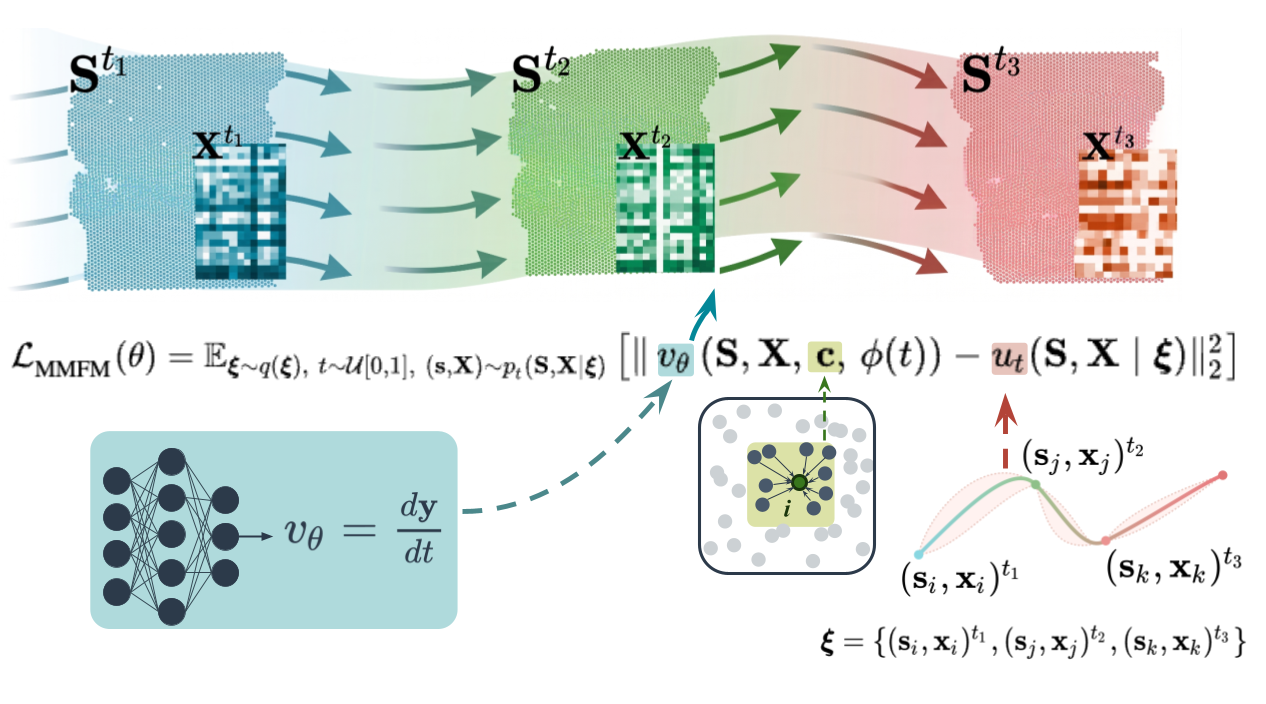
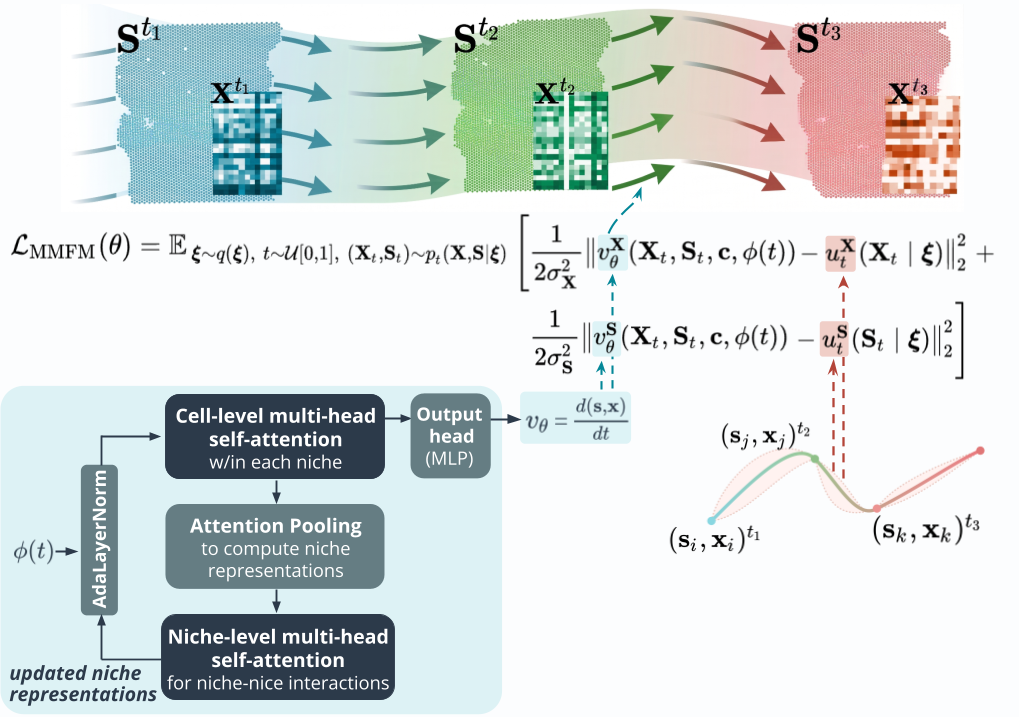
update publications

diff --git a/_includes/cv.md b/_includes/cv.md
@@ -2,7 +2,7 @@
 <!-- I am a **data scientist** and **ML/AI researcher**, focusing on **computational biology** and **biomedicine** applications. As such,  -->
 I am a postdoctoral researcher at the [Eric and Wendy Schmidt Center](https://www.ericandwendyschmidtcenter.org/) of the **Broad Institute of MIT and Harvard**. My research is at the intersection of **computer science**, **molecular biology**, and **statistics**. I develop algorithms and machine learning models to integrate multi-modal genomic data, with a goal of understanding cellular dynamics in health and disease and assisting cell state engineering. I received my Ph.D. in computer science and computational biology from **Brown University**, under the advisement of [Ritambhara Singh, Ph.D.](http://rsinghlab.org/) (primary advisor) and [Sorin Istrail, Ph.D.](https://www.brown.edu/Research/Istrail_Lab/sorin.php) My [doctoral dissertation](https://repository.library.brown.edu/studio/item/bdr:er5vz2ca/) was on optimal transport algorithms for integrated analysis of single-cell multi-omics data. </p> 
 <p align='justify'>
-This year, I am co-organizing the [Generative AI in Genomics (Gen²): Barriers and Frontiers Workshop](https://genai-in-genomics.github.io/) at [ICLR 2026](https://iclr.cc/). If you are in the field, consider joining us this April! Since September 2023, I've also been involved in organizing the [Models, Inference, and Algorithms (MIA)](https://www.broadinstitute.org/talks/fall-2023/mia) seminar series at the Broad, where we host talks by computational scientists in bio(medicine). You can check out our [upcoming schedule](https://www.broadinstitute.org/talks/fall-2023/mia) and [past talks](https://www.youtube.com/watch?v=zE_G9rjIhEQ&list=PLlMMtlgw6qNjROoMNTBQjAcdx53kV50cS).  </p>
+This year, I co-organized the [Generative AI in Genomics (Gen²): Barriers and Frontiers Workshop](https://genai-in-genomics.github.io/) at [ICLR 2026](https://iclr.cc/). Since September 2023, I've also been involved in organizing the [Models, Inference, and Algorithms (MIA)](https://www.broadinstitute.org/talks/fall-2023/mia) seminar series at the Broad, where we host talks by computational scientists in bio(medicine). You can check out our [upcoming schedule](https://www.broadinstitute.org/talks/fall-2023/mia) and [past talks](https://www.youtube.com/watch?v=zE_G9rjIhEQ&list=PLlMMtlgw6qNjROoMNTBQjAcdx53kV50cS).  </p>
 <!-- I am honored to be recognized as part of the [Rising Stars in EECS 2022 cohort](https://risingstars.utexas.edu/#:~:text=Rising%20Stars%20is%20an%20intensive,artificial%20intelligence%20and%20decision%2Dmaking.) by The University of Texas at Austin.<br>
  --><!-- 
 Before joining Brown, I received my bachelor’s degree in **bioengineering** from **Olin College of Engineering**. There, I worked with [Jean J. Huang, Ph.D.](http://www.olin.edu/faculty/profile/jean-j-huang/) and [John Geddes, Ph.D.](http://www.olin.edu/faculty/profile/john-b-geddes) on bioinformatic analyses and dynamical modeling of microbial communities under various perturbations. Later, I worked in the [Quantitative Biology Lab](http://gwli.scripts.mit.edu/group/?p=737), led by [Gene-Wei Li, Ph.D.](https://biology.mit.edu/profile/gene-wei-li/) at the **Massachusetts Institute of Technology (MIT)**, as a research support associate and lab manager, exploring gene regulatory network rewiring in bacteria. In the summers of 2020 and 2022, I interned with two [Health Futures groups](https://www.microsoft.com/en-us/research/lab/microsoft-health-futures/) at **Microsoft Research.** <br> -->
@@ -157,6 +157,23 @@ div.interest-container>ul {
 #### <i class="fa fa-chevron-right"></i> Research Publications <a href="https://scholar.google.com/citations?user=0Tzd6eAAAAAJ&hl=en" class="btn btn-primary" style="padding: 0.3em;"><i class="ai ai-google-scholar"></i> Google Scholar </a>
 <h4>2026</h4>
 
+<tr>
+<td class="col-md-3"><a href='https://openreview.net/pdf?id=RpgaMJ0ovu' target='_blank'><img src="images/publications/spatialFM.png"/></a> </td>
+<td>
+    <strong>Multi-Scale Flow Matching for Continuous-time Generative Modeling of Spatiotemporal Tissue Dynamics from Spatial Transcriptomics</strong><br>
+    <strong> P. Demetci </strong>, T. Guan, B. Xia, L. Atanackovic<br>
+    <em>ICML GenBio</em> <br>
+    [9] 
+[<a href='javascript:;'
+    onclick='$("#abs_spatial").toggle()'>abstract</a>] [<a href='' target='_blank'>paper</a>] [<a href='[https://github.com/pinardemetci/CHRONOTILE](https://github.com/pinardemetci/CHRONOTILE)' target='_blank'>code</a>] <br>
+<div style="padding: 0.2em; background-color: #175783; color: white; border-radius: 4px; font-size: 1.0em; height: 28px; width: 120px;">
+         Spotlight Paper
+      </div>  
+<div id="abs_spatial" style="text-align: justify; display: none" markdown="1">
+Understanding how tissue organization changes over time in response to signals from the local cellular environment is a fundamental challenge in developmental biology, cancer biology, and regenerative medicine. Spatial transcriptomics enables the characterization of cell states within their native microenvironment. Yet tissue remodeling unfolds continuously, while spatial transcriptomics only captures fragments, yielding unmatched cross-sectional snapshots from a few time points due to its destructive nature. This necessitates computational approaches to reconstruct dynamics from sparse observations. Existing methods either do not model the temporal dynamics or ignore cell signaling effects. We introduce ChronoTILE , a multi-scale, multi-marginal flow matching framework that jointly odels continuous-time spatiotemporal tissue dynamics. ChronoTILE accounts for cell-cell interactions, and models niche-mediated signaling effects, across the full course of a biological process. Applied to an axolotl telencephalon regeneration atlas, ChronoTILE outperforms existing methods in reconstructing held-out slices and reveals a temporal shift toward differentiation-driven cell signaling from injury-driven effects as the tissue recovers, enabling data-driven discovery of the multicellular programs governing tissue remodeling.
+</div>
+</td>
+</tr>
 
 
 <h4>2025</h4>
@@ -174,22 +191,6 @@ div.interest-container>ul {
     
 <div id="abs_zeppilli" style="text-align: justify; display: none" markdown="1">
 Understanding the molecular logic of cortical cell-type diversity can illuminate cortical circuit function and evolution. Here, we performed single-nucleus transcriptome and chromatin accessibility analyses to compare neurons across three- to six-layered cortical areas of adult mice and across tetrapod species. We found that, in contrast to the six-layered neocortex, glutamatergic neurons of the three-layered mouse olfactory (piriform) cortex displayed continuous rather than discrete variation in transcriptomic profiles. Subsets of piriform and neocortical glutamatergic cells with conserved transcriptomic profiles were distinguished by distinct, area-specific epigenetic states. Furthermore, we identified a prominent population of immature neurons in piriform cortex and observed that, in contrast to the neocortex, piriform cortex exhibited divergence between glutamatergic cells in laboratory versus wild-derived mice. Finally, we showed that piriform neurons displayed greater transcriptomic similarity to cortical neurons of turtles, lizards and salamanders than to those of the neocortex. In summary, despite over 200 million years of coevolution alongside the neocortex, olfactory cortex neurons retain molecular signatures of ancestral cortical identity.
-</div>
-</td>
-</tr>
-
-<tr>
-<td class="col-md-3"><a href='https://openreview.net/pdf?id=RpgaMJ0ovu' target='_blank'><img src="images/publications/spatialFM.png"/></a> </td>
-<td>
-    <strong>Learning Continuous-Time Molecular Dynamics of Tissue Remodeling from Spatial Transcriptomic Snapshots with Biology-Aware Flow Matching</strong><br>
-    <strong> P. Demetci </strong>, G.M. Gonzalez<br>
-    <em>NeurIPS LXAI</em> <br>
-    [9] 
-[<a href='javascript:;'
-    onclick='$("#abs_spatial").toggle()'>abstract</a>] [<a href='https://openreview.net/pdf?id=RpgaMJ0ovu' target='_blank'>paper</a>] [<a href='[https://github.com/scotplus/scotplus](https://github.com/pinardemetci/CHRONOTILE)' target='_blank'>code</a>] <br>
-    
-<div id="abs_spatial" style="text-align: justify; display: none" markdown="1">
-Understanding the molecular mechanisms of tissue regeneration requires reconstructing continuous spatiotemporal dynamics from sparse, irregularly sampled data. We introduce a computational framework that learns these dynamics using a multi-marginal flow matching approach. Our model explicitly accounts for cell proliferation and signaling, and constrains inferred trajectories to the data manifold to ensure biological plausibility. To capture the influence of the microenvironment, we condition the flows on cell-cell signaling representations. For efficient training, we use semi-balanced Fused Gromov-Wassertein couplings to pick multi-marginal samples for training and define conditional reference paths based on cubic Hermite splines. We then decompose the learned velocity field into spatial and gene expression components, disentangling the factors behind tissue migration from molecular state transitions. Applied to an axolotl brain regeneration and ulcerative colitis datasets, our method recovers cell type-specific signaling influences such as Wnt and TGF-\(\beta\) and immune signaling in inflammation. It successfully reconstructs tissue composition at unseen time points, particularly under irregular sampling. This work provides a scalable and interpretable framework for studying dynamic tissue remodeling from limited spatial transcriptomic observations.
 </div>
 </td>
 </tr>
